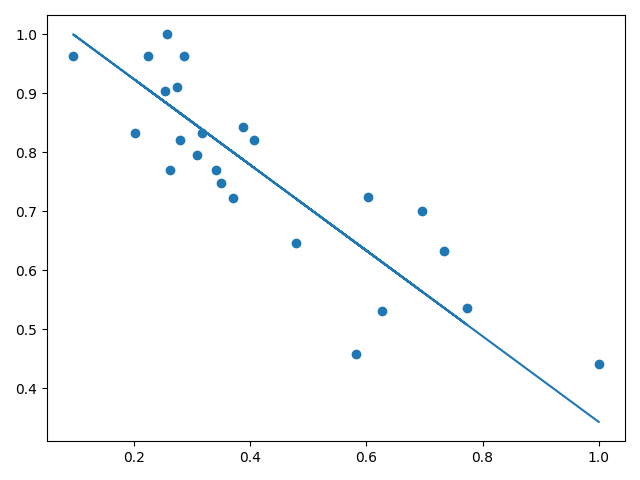
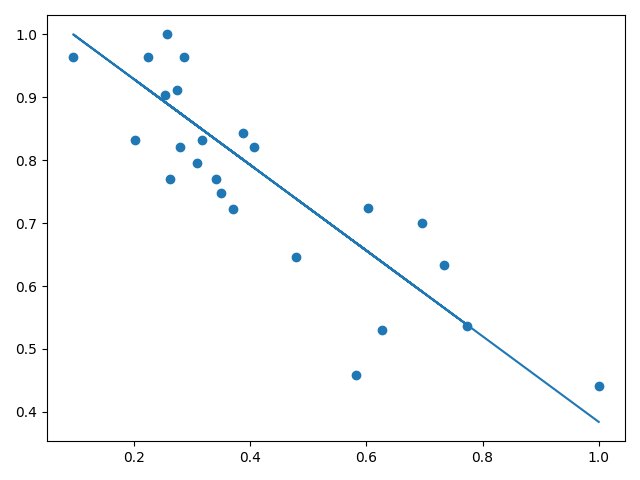
show

diff --git a/give_price.py b/give_price.py
@@ -65,11 +65,9 @@ def normalize_list(values: list) -> list:
 
     return nvalues
 
-def display_points(frame_x: DataFrame, frame_y: DataFrame, b: float, coeff: float) -> None:
+def display_points(fig: any, ax: any, frame_x: DataFrame, frame_y: DataFrame, b: float, coeff: float, showed: bool=False) -> None:
 
     y_pred = []
-
-    fig, ax = subplots()
 
     for i, unit in enumerate(frame_x):
         y_pred.insert(i, coeff * unit + b)
@@ -78,13 +76,17 @@ def display_points(frame_x: DataFrame, frame_y: DataFrame, b: float, coeff: floa
     # print("nonox", normalize(frame_x))
     # print("nonoy", normalize(frame_y))
 
-    tight_layout()
-    savefig('output_normalized', dpi=100)
+    if showed == True:
+        show()
 
-    fig, ax = subplots()
-    ax.scatter(frame_x, frame_y)
+    else:
+        tight_layout()
+        savefig('output_normalized', dpi=100)
 
-    tight_layout()
-    savefig('output_real', dpi=100)
+        fig, ax = subplots()
+        ax.scatter(frame_x, frame_y)
+
+        tight_layout()
+        savefig('output_real', dpi=100)
 
 

diff --git a/main.py b/main.py
@@ -1,4 +1,4 @@
-
+from matplotlib.pyplot import legend, savefig, tight_layout, subplots, show, plot
 from give_price import load, get_values, display_points
 from train_model import train_model
 
@@ -6,11 +6,13 @@ def main():
     df = load('data.csv')
     lhs = get_values(df, "km")
     rhs = get_values(df, "price")
-    theta_0, theta_1 = train_model(lhs, rhs)
-    display_points(lhs, rhs, theta_0, theta_1)
-    print("theta_0", theta_0)
-    print("theta_1", theta_1)
-
+    fig, ax = subplots()
+    for i in range(1000, 10000):
+        theta_0, theta_1 = train_model(lhs, rhs, i)
+        display_points(fig, ax, lhs, rhs, theta_0, theta_1, True)
+        print("theta_0", theta_0)
+        print("theta_1", theta_1)
+    display_points(fig, ax, lhs, rhs, theta_0, theta_1)
 
 if __name__ == "__main__":
     try:

diff --git a/train_model.py b/train_model.py
@@ -2,7 +2,7 @@ from pandas import DataFrame
 from give_price import normalize, normalize_list
 
 
-def train_model(lhs: DataFrame, rhs: DataFrame):
+def train_model(lhs: DataFrame, rhs: DataFrame, iterations: int):
     theta_0 = 0
     theta_1 = 0
     se = 0
@@ -11,11 +11,13 @@ def train_model(lhs: DataFrame, rhs: DataFrame):
     thetas_1 = []
     ses = []
     lst = [(0, 0, 0)]
+    sorted_list = []
+    index = 0
     try:
-        for i in range(1000):
+        for i in range(iterations):
             # if i == 500:
             #     break
-            theta_1 = float(i / 1000)
+            theta_1 = float(i / iterations)
             for j, (x_unit, y_unit) in enumerate(zip(lhs, rhs)):
                 y = theta_1 * x_unit + theta_0
                 if i == 0:

diff --git a/prediction.py b/prediction.py
@@ -11,7 +11,7 @@ def main():
     rhs = get_values(df, "price")
     ret = theta_0 + theta_1 * float(mileage)
     print("Before training: ", ret)
-    theta_0, theta_1 = train_model(lhs, rhs)
+    theta_0, theta_1 = train_model(lhs, rhs, 1000)
     print("After training: ", theta_0 + theta_1 * float(mileage))
 
 
